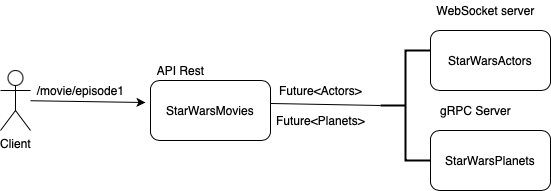
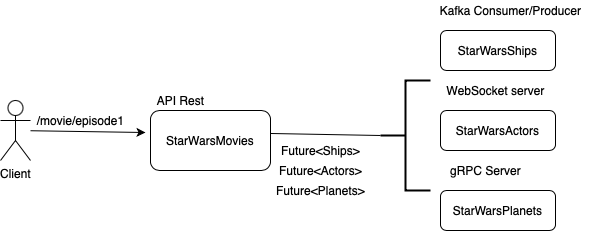
Add new module with Kafka

Changed region(s): [[0.0, 0.1047, 1.0, 1.0], [0.7405, 0.0262, 0.9873, 0.0785], [0.4628, 0.7853, 0.6171, 0.8639]]

diff --git a/README.md b/README.md
@@ -1,10 +1,11 @@
 # reactiveStarWars
 
-A Star wars reactive microservice platform, formed by three services:
+A Star wars reactive microservice platform, formed by four services:
 * **StarWarsMovie:** Rest API microservice. The entry point of the platform which orchestrate and gather the information for the client.
 * **StarWarsActors:** WebSocket microservice. It contains the information of characters per episode.
 * **StarWarsPlanets:** gRPC microservice. It contains the information of planets per episode.
-
+* **StarWarsShips:** Kafka microservice. It contains the information of ships per episode.
+ 
     ![My image](img/starWars.png)
 
 In this platform, we apply different reactive technologies not only to communicate between microservice,
@@ -12,6 +13,9 @@ but also to be NIO and control side-effect.
 
 As Http Server technology we use [Vertx](https://vertx.io) in his latest version, which provide the different patterns to
 communicate between services like ````WebSocket```` or ```gRPC```
+
+For ````Event driven```` pattern we use  [Kafka Alpakka](https://doc.akka.io/docs/alpakka-kafka/current/home.html) a Kafka
+ Akka library implemented in top of Apache Kafka.
 
 For ```NIO``` and ```Side-effects```  we use functional programing library [Vavr](https://www.vavr.io) 
 which provide a ```Future```, ```Option```, ```Try``` and ```Either``` like in Scala lang.
@@ -30,11 +34,6 @@ To package your application:
 ./gradlew clean assemble
 ```
 
-To run your application:
-```
-./gradlew clean run
-```
-
 To run kafka
 
 ````
@@ -43,7 +42,7 @@ docker-compose up -d
 
 ### Running
 
-To run the three microservice you can use the main class of the ```TestFramework``` module 
+To run the four microservice you can use the main class of the ```TestFramework``` module 
 [here](TestFramework/src/main/java/com/politrons/main/startWarsPlatformMain.java)
 
 ### Stack
